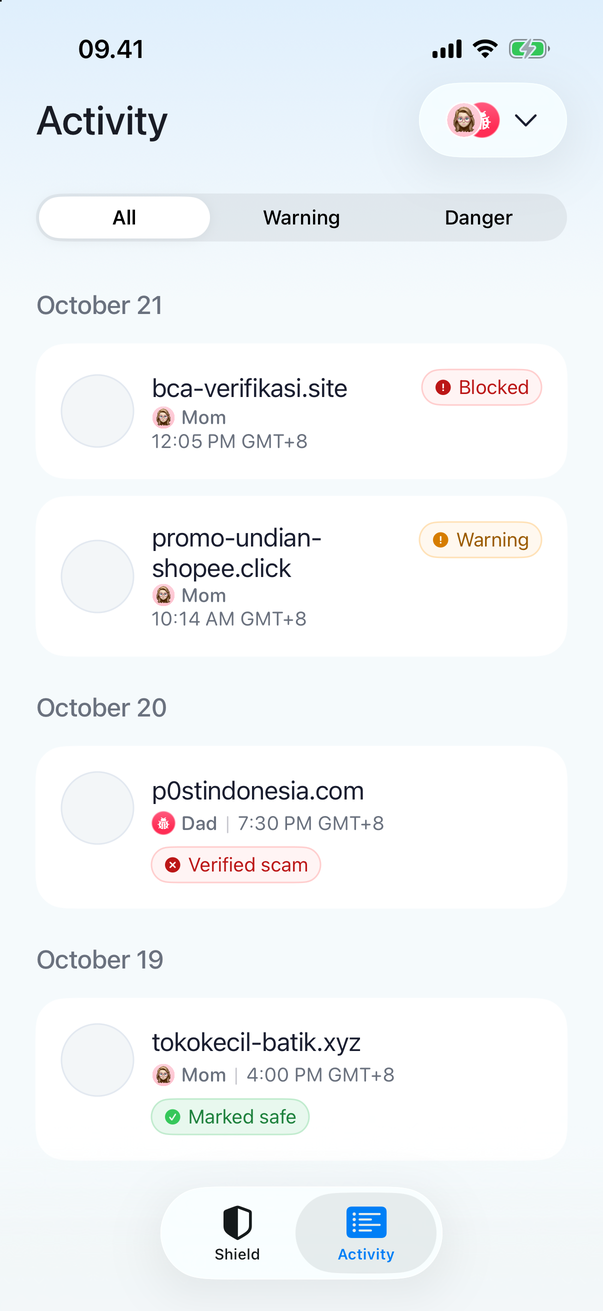
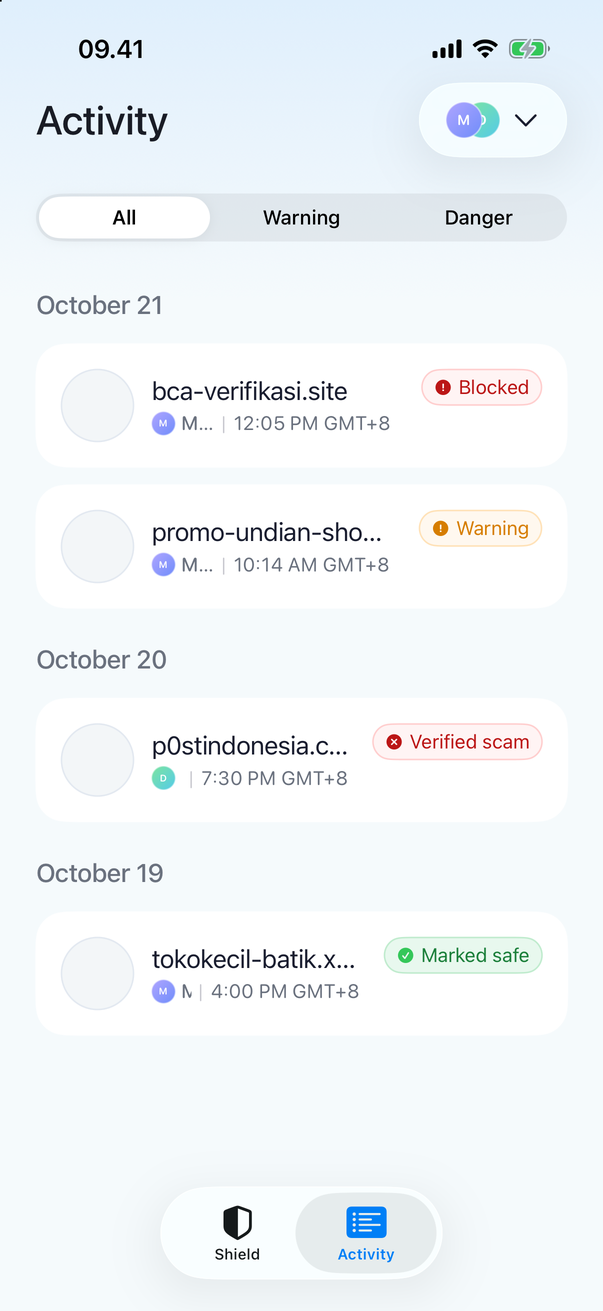
fix(PR-05,GD-05): Activity matches Figma exactly
- Domain on one line, host only, cut with "…" at the end.
- Every badge top right, verdict badges included; Waspada text #D67D00.
- Member avatars are Figma's gradient initials (rows, picker button, menu).
- Picker menu rows 40 pt; "Name | time" on one line, name cut first.

diff --git a/ios/ShooApp/Features/Activity/ActivityView.swift b/ios/ShooApp/Features/Activity/ActivityView.swift
@@ -303,14 +303,14 @@ struct ActivityPersonButton: View {
             HStack(spacing: 8) {
                 if let selected {
                     HStack(spacing: 4) {
-                        ActivityAvatar(id: selected.avatarId, size: 24)
+                        ActivityAvatar(name: selected.name, avatarId: selected.avatarId, size: 24)
                         Text(verbatim: selected.name)
                             .activityFont(15, tracking: -0.15)
                             .foregroundStyle(ActivityStyle.ink)
                             .lineLimit(1)
                     }
                 } else {
-                    ActivityAvatarStack(ids: people.map(\.avatarId))
+                    ActivityAvatarStack(people: people)
                 }
                 Image(systemName: "chevron.down")
                     .activityFont(17)
@@ -331,7 +331,7 @@ struct ActivityPersonButton: View {
 }
 
 /// Figma "Picker": glass menu with "Semua" (stacked avatars) and one row per member, single choice,
-/// no checkmark. Rows are 44 pt (Figma 40) so they stay easy to hit.
+/// no checkmark. Rows are 40 pt as in Figma.
 struct ActivityPersonMenu: View {
     static let width: CGFloat = 250
 
@@ -343,11 +343,11 @@ struct ActivityPersonMenu: View {
     var body: some View {
         VStack(spacing: 0) {
             item(.everyone, title: Text("All"), identifier: "person.everyone") {
-                ActivityAvatarStack(ids: people.map(\.avatarId))
+                ActivityAvatarStack(people: people)
             }
             ForEach(people) { member in
                 item(.device(member.deviceId), title: Text(verbatim: member.name), identifier: "person.\(member.deviceId)") {
-                    ActivityAvatar(id: member.avatarId, size: 24)
+                    ActivityAvatar(name: member.name, avatarId: member.avatarId, size: 24)
                 }
             }
         }
@@ -375,7 +375,7 @@ struct ActivityPersonMenu: View {
             }
             .padding(.leading, 22)
             .padding(.trailing, 24)
-            .frame(minHeight: 44)
+            .frame(minHeight: 40)
             .contentShape(Rectangle())
         }
         .buttonStyle(.plain)
@@ -415,15 +415,11 @@ struct ActivityRow: View {
             if dynamicTypeSize.isAccessibilitySize {
                 VStack(alignment: .leading, spacing: 12) {
                     ActivityBadge(badge: badge)
-                    site(badgeBelow: nil)
+                    site
                 }
-            } else if badge == .verifiedScam || badge == .markedSafe {
-                // The guardian's verdict badges are too long for the top-right corner: they would
-                // squeeze the domain and the name, so they sit under the time instead.
-                site(badgeBelow: badge)
             } else {
                 HStack(alignment: .top, spacing: 16) {
-                    site(badgeBelow: nil)
+                    site
                     ActivityBadge(badge: badge)
                 }
             }
@@ -443,38 +439,21 @@ struct ActivityRow: View {
 
     private var time: String { Formatters.time(scan.detectedAt, language: language) }
 
-    private func ownerLabel(_ owner: Owner) -> some View {
-        HStack(spacing: 4) {
-            ActivityAvatar(id: owner.avatarId ?? "", size: 16)
-            Text(verbatim: owner.name)
-                .activityFont(13, .medium, rounded: true)
-                .lineLimit(1)
-        }
-    }
 
-    private var timeLabel: some View {
-        Text(verbatim: time).activityFont(13, rounded: true)
-    }
-
-    /// Icon + domain + subline. The domain wraps to a second line rather than losing its middle:
-    /// it is what the user has to recognise.
-    private func site(badgeBelow: ScanBadge?) -> some View {
-        HStack(alignment: badgeBelow == nil ? .center : .top, spacing: 12) {
+    /// Icon + domain (host only, never the path) + subline. One line as in Figma: a long domain
+    /// ends in "…" to leave room for the badge; Detail shows the whole link.
+    private var site: some View {
+        HStack(spacing: 12) {
             SiteIcon(url: scan.faviconUrl)
             VStack(alignment: .leading, spacing: 0) {
                 Text(verbatim: scan.domain)
                     .activityFont(17, tracking: -0.17)
                     .foregroundStyle(ActivityStyle.ink)
-                    .lineLimit(dynamicTypeSize.isAccessibilitySize ? 4 : 2)
-                    .truncationMode(.middle)
-                    .fixedSize(horizontal: false, vertical: true)
+                    .lineLimit(dynamicTypeSize.isAccessibilitySize ? 3 : 1)
+                    .truncationMode(.tail)
                     .frame(minHeight: 24)
                 subline
                     .frame(minHeight: 20)
-                if let badgeBelow {
-                    ActivityBadge(badge: badgeBelow)
-                        .padding(.top, 6)
-                }
             }
         }
         .frame(maxWidth: .infinity, alignment: .leading)
@@ -483,26 +462,28 @@ struct ActivityRow: View {
     @ViewBuilder
     private var subline: some View {
         if let owner {
-            // "Name | time" on one line when it fits; else the time goes under the name, so neither is cut.
-            ViewThatFits(in: .horizontal) {
-                HStack(spacing: 4) {
-                    ownerLabel(owner).fixedSize()
-                    Text(verbatim: "|")
-                        .activityFont(13, rounded: true)
-                        .foregroundStyle(ActivityStyle.separator)
-                    timeLabel.fixedSize()
-                }
-                VStack(alignment: .leading, spacing: 0) {
-                    ownerLabel(owner)
-                    timeLabel
-                }
+            // "Name | time" on one line as in Figma; the name is cut first, the time only when even
+            // that is not enough (a long verdict badge), so the row never runs past the card.
+            HStack(spacing: 4) {
+                ActivityAvatar(name: owner.name, avatarId: owner.avatarId ?? "", size: 16)
+                Text(verbatim: owner.name)
+                    .activityFont(13, .medium, rounded: true)
+                    .lineLimit(1)
+                Text(verbatim: "|")
+                    .activityFont(13, rounded: true)
+                    .foregroundStyle(ActivityStyle.separator)
+                    .fixedSize()
+                Text(verbatim: time)
+                    .activityFont(13, rounded: true)
+                    .lineLimit(1)
+                    .layoutPriority(1)
             }
             .foregroundStyle(ActivityStyle.secondary)
         } else {
             Text(verbatim: time)
                 .activityFont(13, rounded: true)
                 .foregroundStyle(ActivityStyle.time)
-                .fixedSize()
+                .lineLimit(1)
         }
     }
 }

diff --git a/ios/ShooApp/Features/Activity/ActivityStyle.swift b/ios/ShooApp/Features/Activity/ActivityStyle.swift
@@ -129,12 +129,11 @@ struct ActivityBadge: View {
         }
     }
 
-    /// (icon, text, fill, stroke). Figma's orange text #D67D00 is about 3:1 on its tint; the text uses a
-    /// darker orange that keeps 4.5:1 (as Profile's chip does), the icon keeps the Figma colour.
+    /// (icon, text, fill, stroke), the Figma values.
     private var colors: (icon: Color, text: Color, fill: Color, stroke: Color) {
         switch badge {
         case .warning:
-            (ActivityStyle.hex(0xD67D00), ActivityStyle.hex(0x9A5A00), ActivityStyle.hex(0xFFF8EF), ActivityStyle.hex(0xFFE1B6))
+            (ActivityStyle.hex(0xD67D00), ActivityStyle.hex(0xD67D00), ActivityStyle.hex(0xFFF8EF), ActivityStyle.hex(0xFFE1B6))
         case .blocked, .verifiedScam:
             (ActivityStyle.hex(0xBB1616), ActivityStyle.hex(0xBB1616), ActivityStyle.hex(0xFFF4F4), ActivityStyle.hex(0xFFCDCD))
         case .markedSafe:
@@ -165,13 +164,39 @@ struct ActivityBadge: View {
 
 // MARK: Avatars
 
-/// A member's avatar with Figma's thin white rim.
+/// A member's initial on a gradient with a thin white rim (Figma "Avatar/S", "Avatar/B", "Avatar/R").
+/// The gradient is picked by avatar id, so a member keeps the same colour everywhere.
 struct ActivityAvatar: View {
-    let id: String
+    let name: String
+    let avatarId: String
     let size: CGFloat
 
+    /// Figma's three avatar gradients, top-left → bottom-right.
+    static let gradients: [[Color]] = [
+        [ActivityStyle.hex(0x7DE49C), ActivityStyle.hex(0x54CAE8)],
+        [ActivityStyle.hex(0xFFBE8C), ActivityStyle.hex(0xFF7896)],
+        [ActivityStyle.hex(0xAFA5FF), ActivityStyle.hex(0x6E8CFA)],
+    ]
+
+    static func gradient(avatarId: String) -> [Color] {
+        let number = Int(avatarId.filter(\.isNumber)) ?? 1
+        return gradients[(max(number, 1) - 1) % gradients.count]
+    }
+
+    static func initial(of name: String) -> String {
+        String(name.trimmingCharacters(in: .whitespaces).prefix(1)).uppercased()
+    }
+
     var body: some View {
-        AvatarView(id: id, size: size)
+        Text(verbatim: Self.initial(of: name))
+            // Figma: 9.5 pt on 24, 6.33 pt on 16.
+            .font(.system(size: size * 0.4, weight: .semibold, design: .rounded))
+            .foregroundStyle(.white)
+            .frame(width: size, height: size)
+            .background(
+                LinearGradient(colors: Self.gradient(avatarId: avatarId), startPoint: .topLeading, endPoint: .bottomTrailing),
+                in: Circle()
+            )
             .overlay(Circle().stroke(.white.opacity(0.5)))
             .accessibilityHidden(true)
     }
@@ -179,13 +204,13 @@ struct ActivityAvatar: View {
 
 /// Up to three overlapping avatars, each 12 pt to the right of the previous (Figma "Avatar Stack").
 struct ActivityAvatarStack: View {
-    let ids: [String]
+    let people: [FamilyMember]
     var size: CGFloat = 24
 
     var body: some View {
         HStack(spacing: -size / 2) {
-            ForEach(Array(ids.prefix(3).enumerated()), id: \.offset) { index, id in
-                ActivityAvatar(id: id, size: size)
+            ForEach(Array(people.prefix(3).enumerated()), id: \.offset) { index, member in
+                ActivityAvatar(name: member.name, avatarId: member.avatarId, size: size)
                     .zIndex(Double(-index))
             }
         }

diff --git a/ios/ShooApp/Tests/ActivityModelTests.swift b/ios/ShooApp/Tests/ActivityModelTests.swift
@@ -155,6 +155,16 @@ struct ActivityModelTests {
         #expect(model.state == .loaded)
     }
 
+    @Test(arguments: [("avatar_01", 0), ("avatar_02", 1), ("avatar_03", 2), ("avatar_04", 0), ("", 0), ("x", 0)])
+    func memberAvatarUsesAFigmaGradientPerAvatarId(avatarId: String, index: Int) {
+        #expect(ActivityAvatar.gradient(avatarId: avatarId) == ActivityAvatar.gradients[index])
+    }
+
+    @Test(arguments: [("Syahnaz", "S"), (" bayu", "B"), ("", "")])
+    func memberAvatarShowsTheFirstLetter(name: String, initial: String) {
+        #expect(ActivityAvatar.initial(of: name) == initial)
+    }
+
     @Test func rowLinkHidesQueryAndFragment() throws {
         let url = try #require(URL(string: "https://bca-verify.top/login?user=ibu%40mail.com&otp=123456#step2"))
         #expect(ActivityRow.displayLink(url) == "bca-verify.top/login")

diff --git a/plan/alief/log/DECISIONS.md b/plan/alief/log/DECISIONS.md
@@ -696,5 +696,5 @@ Format:
 ## D-alief-A42 · 28 Okt 2026 · app (PR-05, GD-05) · Activity sesuai Figma
 
 - Keputusan: Activity digambar ulang dari Figma (section `413:1778`): judul "Aktivitas" + segmen "Semua / Waspada / Diblokir" (Family mode: "… / Bahaya", tetap `status=blocked`), baris dikelompokkan per hari ("Hari ini" / "Hari Ini" di Family mode, "25 Oktober", tahun ditambahkan untuk tahun lalu), kartu putih r 20 dengan favicon, domain, jam + singkatan zona waktu ("10.42 WIB"), badge Figma kanan atas (Waspada oranye, Diblokir merah; "Verified scam" merah, "Marked safe" hijau dengan gaya yang sama). Family mode: `owner=family`, baris dari device Guardian sendiri disaring di app (id dari sesi, atau `me()` sekali di mock), halaman yang kosong setelah disaring langsung disambung ke halaman berikutnya; pemilih orang di kanan atas = "Semua" (avatar bertumpuk) + tiap anggota, pilihan tunggal, tanpa centang. Chip "You", catatan "Only your own history?" dan baris link dihapus. Bar navigasi disembunyikan di layar ini (judul sendiri, sesuai Figma), jadi tombol Family dan Profile tidak tampil di tab Activity; keduanya tetap di tab Shield. App terang saja seperti PF-01 (`RootView .preferredColorScheme(.light)`), mode gelap = backlog.
-- Penyimpangan sengaja dari Figma: teks badge Waspada #9A5A00 (Figma #D67D00 ≈ 3:1 di latarnya, sama dengan chip Profile); baris menu pemilih 44 pt (Figma 40) supaya mudah disentuh; avatar anggota memakai `AvatarView` (avatar ON-02 pilihan anggota), bukan inisial bergradasi Figma.
+- Persis Figma (permintaan Alief di PR #168): domain satu baris, hanya host (tanpa path), dipotong "…" di ujung bila panjang; semua badge (termasuk "Verified scam" / "Marked safe") di kanan atas; teks Waspada #D67D00; baris menu pemilih 40 pt; avatar anggota = inisial di atas gradasi Figma (3 gradasi, dipilih dari nomor avatar id) di baris, tombol, dan menu; "Nama | jam" satu baris, nama dipotong lebih dulu, jam hanya bila badge sangat panjang.
 - File: `Features/Activity/{ActivityModel,ActivityView,ActivityStyle}.swift`, `Support/Formatters.swift`, `Features/Main/MainTabView.swift`, `App/RootView.swift`, `Tests/{ActivityModelTests,FormatterTests}.swift`, `UITests/GuardianUITests.swift`.
